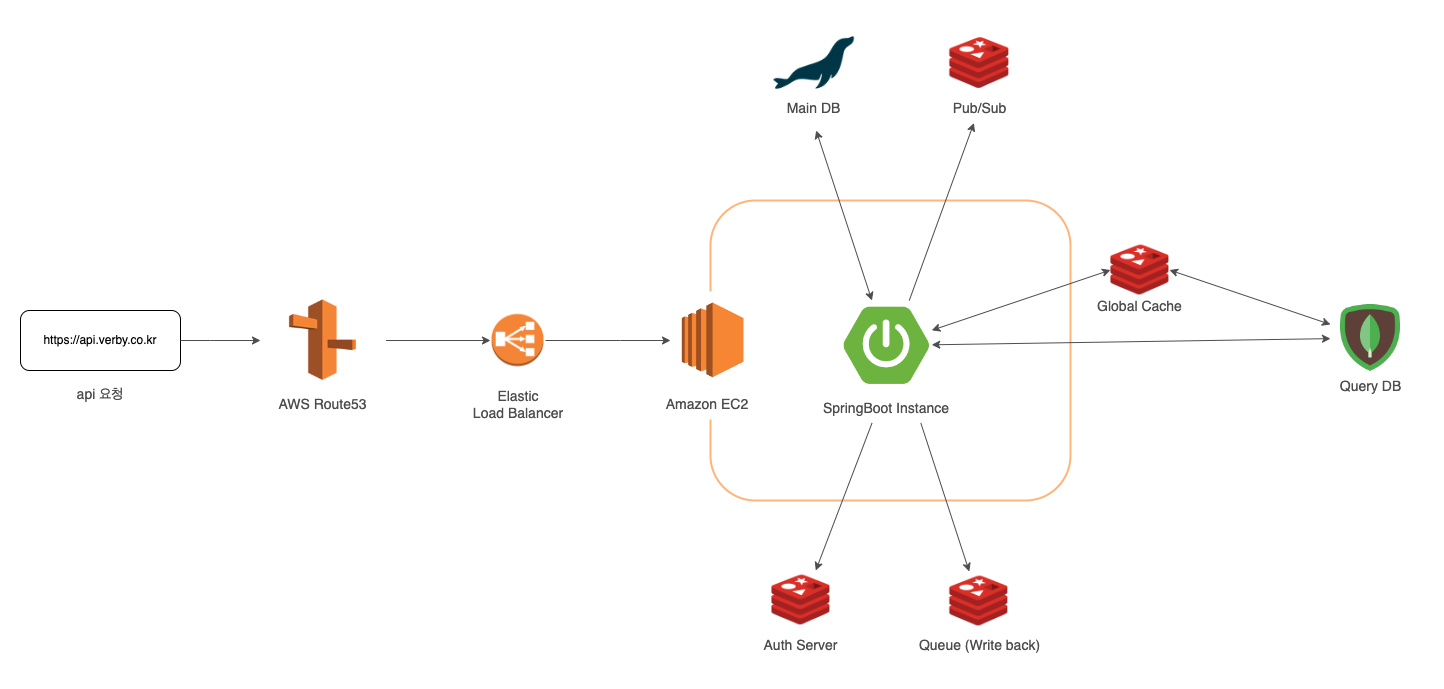
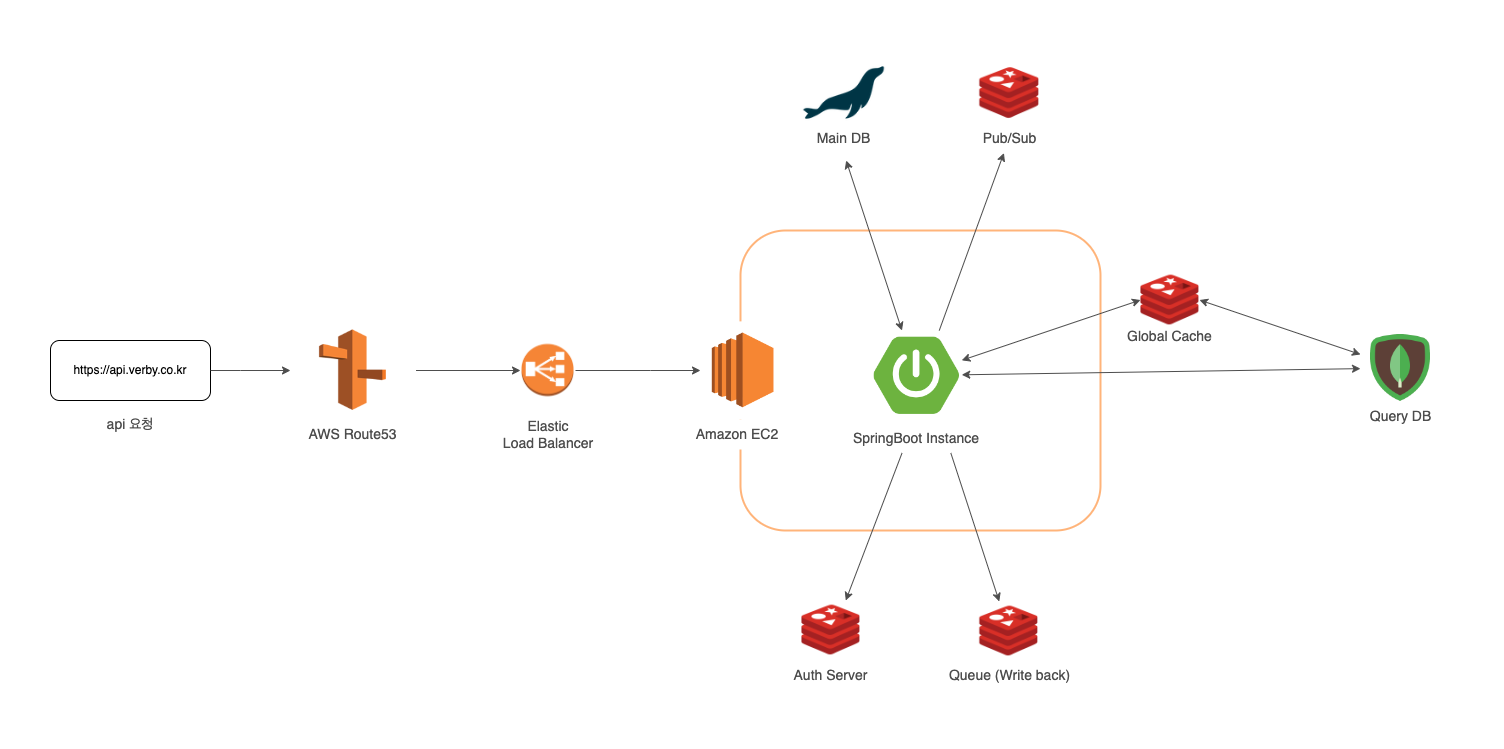
docs: 이미지 스타일 업데이트

diff --git a/README.md b/README.md
@@ -174,19 +174,25 @@
 
 ### API Server
 
-<img src="./docs/project-architecture/api-server.png" style="background-color:white;border: 1px solid black;border-radius: 12px; max-width: 100%"/>
+<kbd>
+<img src="./docs/project-architecture/api-server.png" style="border: 1px solid black;border-radius: 12px;" width="100%"/>
+</kbd>
 
 > Link: https://drive.google.com/file/d/1uWQcvmy768GgIKrWY0OrHf2J5FEVfacf/view?usp=sharing
 
 ### Batch Server
 
-<img src="./docs/project-architecture/batch-server.png" style="background-color:white;border:1px solid black; border-radius: 12px; max-width: 60%"/>
+<kbd>
+<img src="./docs/project-architecture/batch-server.png" style="border:1px solid black; border-radius: 12px;" width="55%"/>
+</kbd>
 
 > Link: https://drive.google.com/file/d/1ncHeFbQsga0g9eu7wFaAVakgpxWWl_OJ/view?usp=sharing
 
 ### Consumer Server
 
-<img src="./docs/project-architecture/consumer-server.png" style="background-color:white;border:1px solid black; border-radius: 12px; max-width: 70%"/>
+<kbd>
+<img src="./docs/project-architecture/consumer-server.png" style="border:1px solid black; border-radius: 12px;" width="70%"/>
+</kbd>
 
 > Link: https://drive.google.com/file/d/1Wk3fphFL0jvmqTJxvwJoYa8rNkSKYtI9/view?usp=sharing
 
